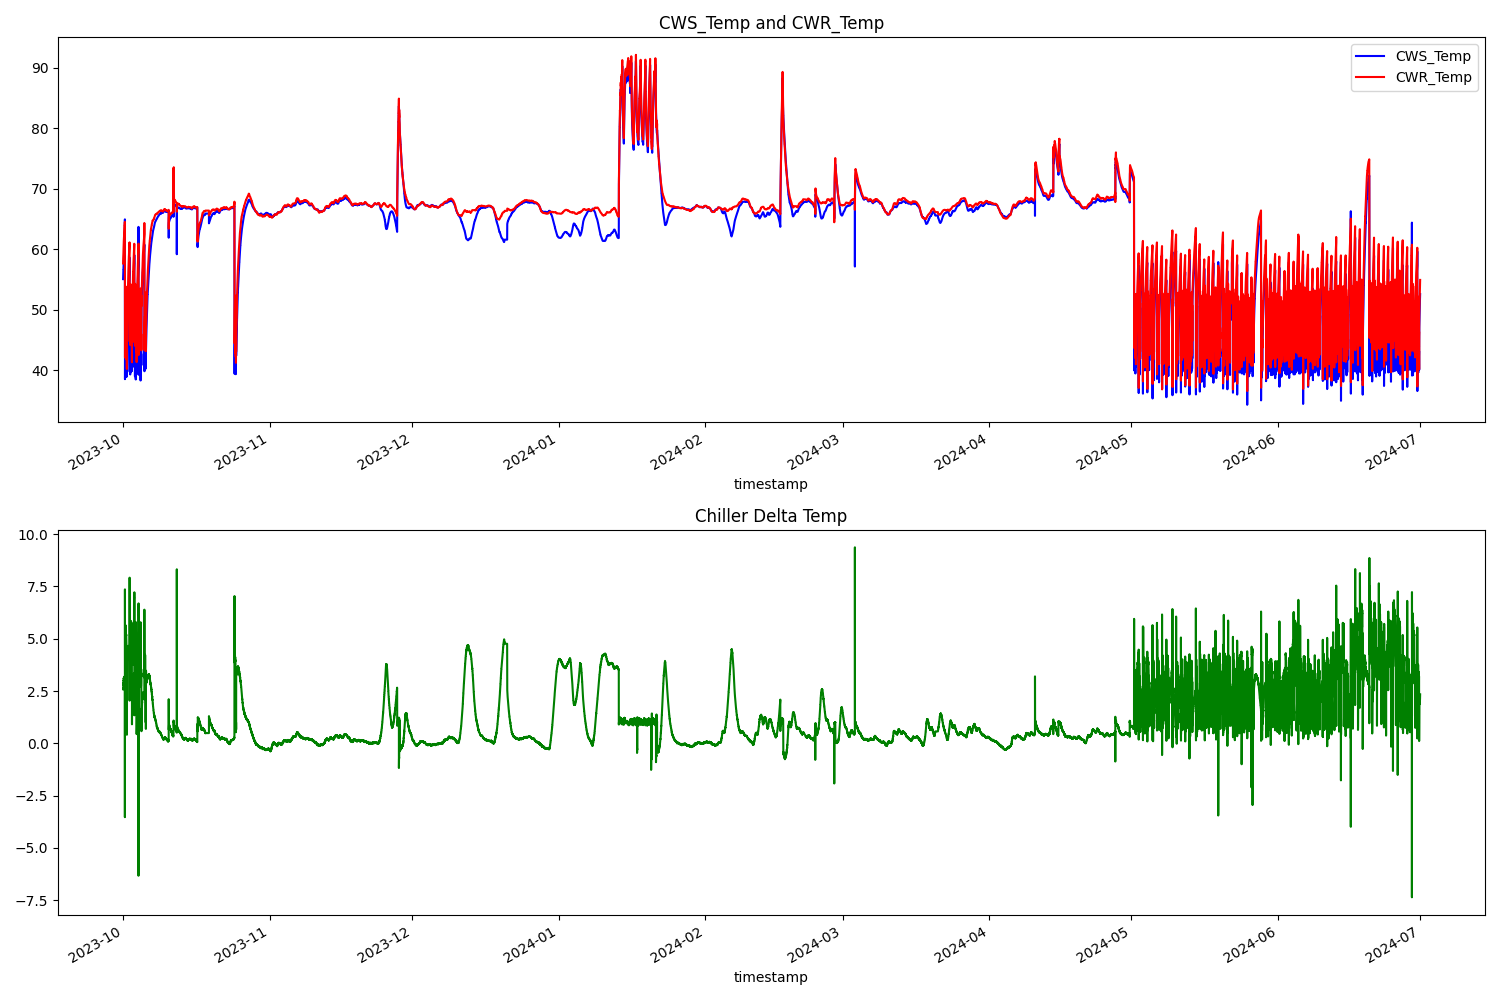
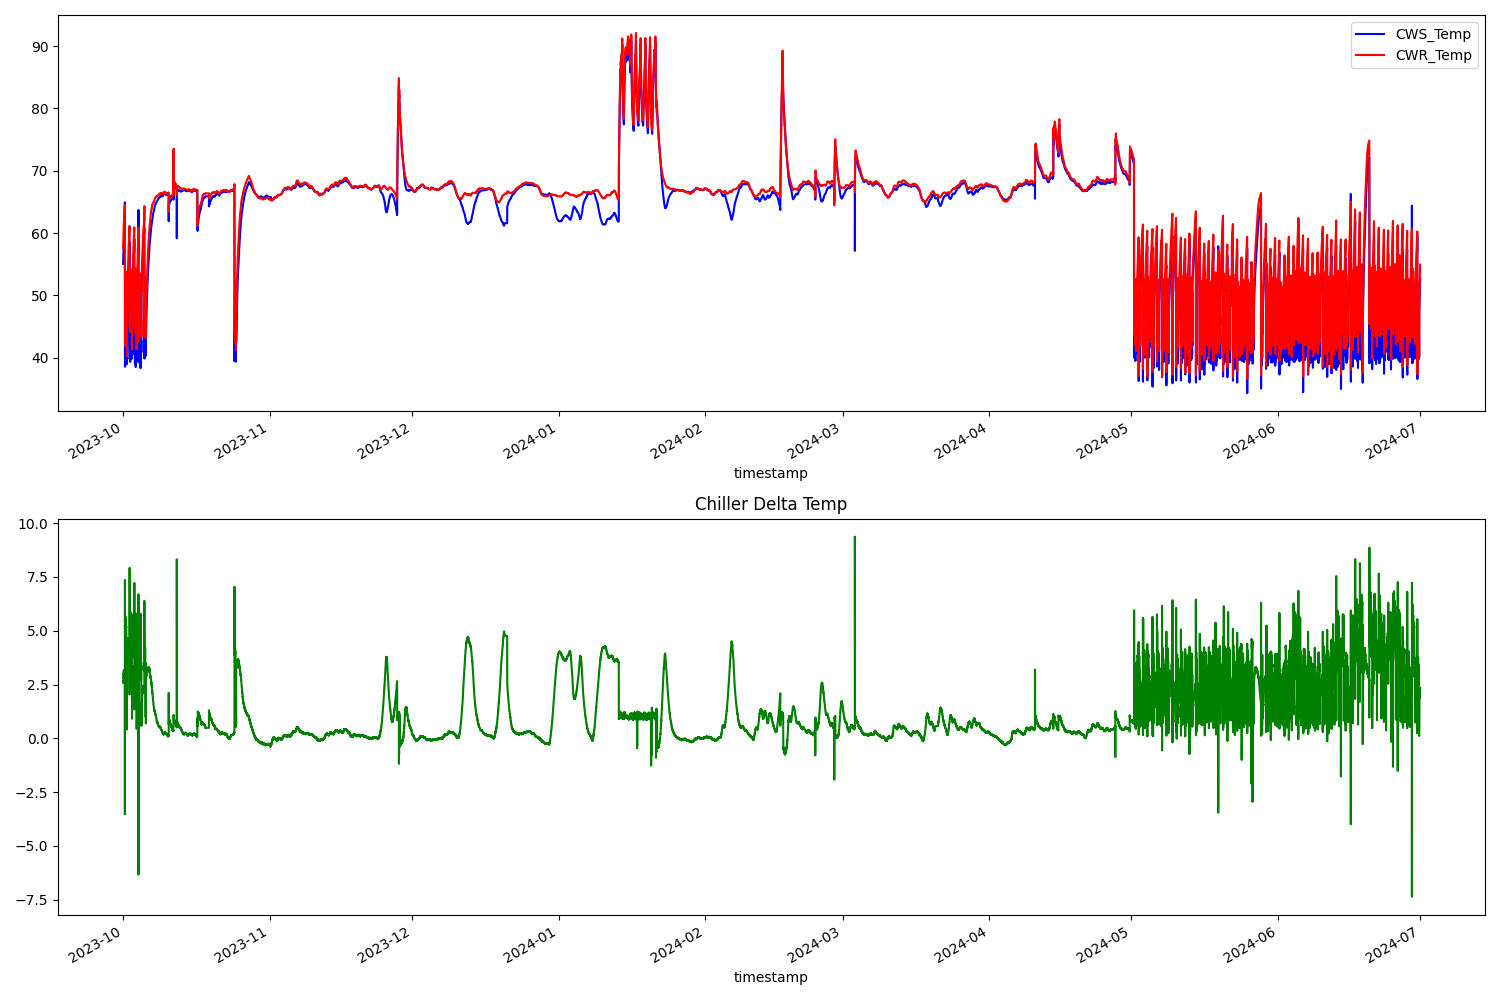
updates for black_box to include all data in training and new method to run all faults but not tested yet

diff --git a/open_fdd/air_handling_unit/faults/helper_utils.py b/open_fdd/air_handling_unit/faults/helper_utils.py
@@ -1,7 +1,19 @@
 import pandas as pd
 import pandas.api.types as pdtypes
-
-
+import os
+from open_fdd.air_handling_unit.faults.fault_condition_one import FaultConditionOne
+from open_fdd.air_handling_unit.faults.fault_condition_two import FaultConditionTwo
+from open_fdd.air_handling_unit.faults.fault_condition_three import FaultConditionThree
+from open_fdd.air_handling_unit.faults.fault_condition_four import FaultConditionFour
+from open_fdd.air_handling_unit.faults.fault_condition_five import FaultConditionFive
+from open_fdd.air_handling_unit.faults.fault_condition_six import FaultConditionSix
+from open_fdd.air_handling_unit.faults.fault_condition_seven import FaultConditionSeven
+from open_fdd.air_handling_unit.faults.fault_condition_eight import FaultConditionEight
+from open_fdd.air_handling_unit.faults.fault_condition_nine import FaultConditionNine
+from open_fdd.air_handling_unit.faults.fault_condition_ten import FaultConditionTen
+from open_fdd.air_handling_unit.faults.fault_condition_eleven import FaultConditionEleven
+from open_fdd.air_handling_unit.faults.fault_condition_twelve import FaultConditionTwelve
+from open_fdd.air_handling_unit.faults.helper_utils import HelperUtils
 
 class HelperUtils:
     def float_int_check_err(self, col):
@@ -36,7 +48,6 @@ class HelperUtils:
                 raise TypeError(self.float_int_check_err(col))
         return df
     
-
     def apply_rolling_average_if_needed(self, df, freq="1T", rolling_window="5T"):
         """Apply rolling average if time difference between consecutive timestamps is not greater than the specified frequency."""
         time_diff = df.index.to_series().diff().iloc[1:]
@@ -48,3 +59,118 @@ class HelperUtils:
         else:
             df = df.rolling(rolling_window).mean()
         return df
+    
+    def process_all_faults(self, df, config_dict):
+        fault_counts = {}
+
+        # Apply rolling average if needed for
+        # high frequency 1-minute or less data set
+        df = self.apply_rolling_average_if_needed(df)
+
+        # Initialize Fault Condition Classes
+        fc1 = FaultConditionOne(config_dict)
+        fc2 = FaultConditionTwo(config_dict)
+        fc3 = FaultConditionThree(config_dict)
+        fc4 = FaultConditionFour(config_dict)
+        fc5 = FaultConditionFive(config_dict)
+        fc7 = FaultConditionSeven(config_dict)
+        fc8 = FaultConditionEight(config_dict)
+        fc9 = FaultConditionNine(config_dict)
+        fc10 = FaultConditionTen(config_dict)
+        fc11 = FaultConditionEleven(config_dict)
+        fc12 = FaultConditionTwelve(config_dict)
+
+        # Optionally initialize Fault Condition Six
+        if config_dict["SUPPLY_FAN_AIR_VOLUME_COL"] is not None:
+            fc6 = FaultConditionSix(config_dict)
+
+        # Apply fault conditions to DataFrame
+        df_fc1 = fc1.apply(df.copy())
+        fc1_faults = df_fc1["fc1_flag"].sum()
+        print("fc1 done... fault sum: ", fc1_faults)
+        fault_counts["fc1_fault_sum"] = fc1_faults
+
+        df_fc2 = fc2.apply(df.copy())
+        fc2_faults = df_fc2["fc2_flag"].sum()
+        print("fc2 done... fault sum: ", fc2_faults)
+        fault_counts["fc2_fault_sum"] = fc2_faults
+
+        df_fc3 = fc3.apply(df.copy())
+        fc3_faults = df_fc3["fc3_flag"].sum()
+        print("fc3 done... fault sum: ", fc3_faults)
+        fault_counts["fc3_fault_sum"] = fc3_faults
+
+        df_fc4 = fc4.apply(df.copy())  # Fault 4 with special handling
+        fc4_faults = df_fc4["fc4_flag"].sum()
+        print("fc4 done... fault sum: ", fc4_faults)
+        fault_counts["fc4_fault_sum"] = fc4_faults
+
+        df_fc5 = fc5.apply(df.copy())
+        fc5_faults = df_fc5["fc5_flag"].sum()
+        print("fc5 done... fault sum: ", fc5_faults)
+        fault_counts["fc5_fault_sum"] = fc5_faults
+
+        if config_dict["SUPPLY_FAN_AIR_VOLUME_COL"] is not None:
+            df_fc6 = fc6.apply(df.copy())
+            fc6_faults = df_fc6["fc6_flag"].sum()
+            print("fc6 done... fault sum: ", fc6_faults)
+            fault_counts["fc6_fault_sum"] = fc6_faults
+
+        df_fc7 = fc7.apply(df.copy())
+        fc7_faults = df_fc7["fc7_flag"].sum()
+        print("fc7 done... fault sum: ", fc7_faults)
+        fault_counts["fc7_fault_sum"] = fc7_faults
+
+        df_fc8 = fc8.apply(df.copy())
+        fc8_faults = df_fc8["fc8_flag"].sum()
+        print("fc8 done... fault sum: ", fc8_faults)
+        fault_counts["fc8_fault_sum"] = fc8_faults
+
+        df_fc9 = fc9.apply(df.copy())
+        fc9_faults = df_fc9["fc9_flag"].sum()
+        print("fc9 done... fault sum: ", fc9_faults)
+        fault_counts["fc9_fault_sum"] = fc9_faults
+
+        df_fc10 = fc10.apply(df.copy())
+        fc10_faults = df_fc10["fc10_flag"].sum()
+        print("fc10 done... fault sum: ", fc10_faults)
+        fault_counts["fc10_fault_sum"] = fc10_faults
+
+        df_fc11 = fc11.apply(df.copy())
+        fc11_faults = df_fc11["fc11_flag"].sum()
+        print("fc11 done... fault sum: ", fc11_faults)
+        fault_counts["fc11_fault_sum"] = fc11_faults
+
+        df_fc12 = fc12.apply(df.copy())
+        fc12_faults = df_fc12["fc12_flag"].sum()
+        print("fc12 done... fault sum: ", fc12_faults)
+        fault_counts["fc12_fault_sum"] = fc12_faults
+
+        # Combine fault condition results
+        df_combined = df_fc1.copy()
+        df_combined["fc2_flag"] = df_fc2["fc2_flag"]
+        df_combined["fc3_flag"] = df_fc3["fc3_flag"]
+        df_combined["fc5_flag"] = df_fc5["fc5_flag"]
+
+        if config_dict["SUPPLY_FAN_AIR_VOLUME_COL"] is not None:
+            df_combined["fc6_flag"] = df_fc6["fc6_flag"]
+
+        df_combined["fc7_flag"] = df_fc7["fc7_flag"]
+        df_combined["fc8_flag"] = df_fc8["fc8_flag"]
+        df_combined["fc9_flag"] = df_fc9["fc9_flag"]
+        df_combined["fc10_flag"] = df_fc10["fc10_flag"]
+        df_combined["fc11_flag"] = df_fc11["fc11_flag"]
+        df_combined["fc12_flag"] = df_fc12["fc12_flag"]
+
+        # Print the number of faults for each condition
+        for key, value in fault_counts.items():
+            print(f"{key}: {value}")
+        print("=" * 50)
+
+        # Save fault counts to CSV
+        fault_counts_df = pd.DataFrame(
+            list(fault_counts.items()), columns=["Fault Condition", "Count"]
+        )
+
+        return df_combined, fault_counts_df
+

diff --git a/open_fdd/examples/main.py b/open_fdd/examples/main.py
@@ -1,0 +1,86 @@
+
+
+import pandas as pd
+from open_fdd.air_handling_unit.faults.helper_utils import process_all_faults
+
+# Configuration dictionary
+config_dict = {
+    # used for report name
+    'AHU_NAME': "MZVAV_1",
+
+    # timestamp column name
+    'INDEX_COL_NAME': "timestamp",
+
+    'DUCT_STATIC_COL': "SaStatic",
+    'DUCT_STATIC_SETPOINT_COL': "SaStaticSPt",
+    'SUPPLY_VFD_SPEED_COL': "Sa_FanSpeed",
+    'MAT_COL': "MA_Temp",
+    'OAT_COL': "OaTemp",
+    'SAT_COL': "SaTempSP",
+    'RAT_COL': "RaTemp",
+    'HEATING_SIG_COL': "HW_Valve",  
+    'COOLING_SIG_COL': "CW_Valve",  
+    'ECONOMIZER_SIG_COL': "OA_Damper",
+    'SUPPLY_FAN_AIR_VOLUME_COL': None,  # Set to None to potentially skip Fault Condition 6
+
+    'SAT_SETPOINT_COL': "SaTempSPt",
+    'CONSTANT_LEAVE_TEMP_SP': False,
+    'CONSTANT_LEAVE_TEMP_SP_VAL': 55.0,
+
+    'VFD_SPEED_PERCENT_ERR_THRES': 0.05,
+    'VFD_SPEED_PERCENT_MAX': 0.99,
+    'DUCT_STATIC_INCHES_ERR_THRES': 0.1,
+    'OUTDOOR_DEGF_ERR_THRES': 5.0,
+    'MIX_DEGF_ERR_THRES': 5.0,
+    'RETURN_DEGF_ERR_THRES': 2.0,
+    'SUPPLY_DEGF_ERR_THRES': 2.0,
+    'DELTA_T_SUPPLY_FAN': 2.0,
+
+    'DELTA_OS_MAX': 7,
+    'AHU_MIN_OA_DPR': 0.20,
+    'OAT_RAT_DELTA_MIN': 10,
+    'AIRFLOW_ERR_THRES': 0.3,
+    'AHU_MIN_OA_CFM_DESIGN': 2500,
+    'TROUBLESHOOT_MODE': False,
+    'ROLLING_WINDOW_SIZE': 5
+}
+
+
+# Load your data
+ahu_data = r"C:\Users\bbartling\Documents\WPCRC_Master_Mod.csv"
+df = pd.read_csv(ahu_data)
+
+# this data the AO's are floats between 0.0 and 100
+# so convert to percentage for floats between 0 and 1
+# so code under the hood understands it
+percentage_columns = [
+    config_dict["SUPPLY_VFD_SPEED_COL"],
+    config_dict["HEATING_SIG_COL"],
+    config_dict["COOLING_SIG_COL"],
+    config_dict["ECONOMIZER_SIG_COL"],
+]
+
+for col in percentage_columns:
+    df[col] = df[col] / 100.0
+
+# Convert the timestamp column to datetime and set it as the index
+df["timestamp"] = pd.to_datetime(df["timestamp"])
+df.set_index("timestamp", inplace=True)
+
+# Print the DataFrame and its columns to verify
+print(df)
+print(df.columns)
+
+df_combined, fault_counts_df = process_all_faults(df, config_dict)
+
+
+fault_counts_df.to_csv("fault_counts.csv", index=False)
+df_combined.to_csv(config_dict["AHU_NAME"] + "_final.csv", index=True)
+print("all done")
+
+'''
+TEST SAVING REPORT NAMES as
+config_dict = {
+    # used for report name
+    'AHU_NAME': "MZVAV_1"
+'''

diff --git a/open_fdd/black_box_model/train_chiller_delta.py b/open_fdd/black_box_model/train_chiller_delta.py
@@ -39,10 +39,10 @@ def load_and_prepare_data(filepath):
     df = pd.read_csv(filepath, parse_dates=['timestamp'], index_col='timestamp')
     df = df[(df['CWS_Temp'] != 0) & (df['CWR_Temp'] != 0)]
     df['chiller_delta_temp'] = df['CWR_Temp'] - df['CWS_Temp']
-    # Optionally drop any columns not used
-    # df.drop(columns=['CWR_Temp', 'CWS_Temp'], inplace=True)
-    make_plots(df)
+    make_plots(df)  # Call make_plots before dropping columns
     plot_correlation_matrix(df)
+    df.drop(columns=['CWR_Temp', 'CWS_Temp'], inplace=True)
+    print(df.columns)
     return df.dropna()
 
 def evaluate_lags(df, max_lag):
@@ -50,7 +50,7 @@ def evaluate_lags(df, max_lag):
     best_rmse = np.inf
     best_lag = None
     for lag in range(1, max_lag + 1):
-        temp_df = create_lagged_features(df, lag)  # Lag all columns now
+        temp_df = create_lagged_features(df, lag)
         train_df, test_df = train_test_split(temp_df, test_size=0.2, random_state=42)
         model = RandomForestRegressor(n_estimators=100, random_state=42)
         model.fit(train_df.drop('chiller_delta_temp', axis=1), train_df['chiller_delta_temp'])
